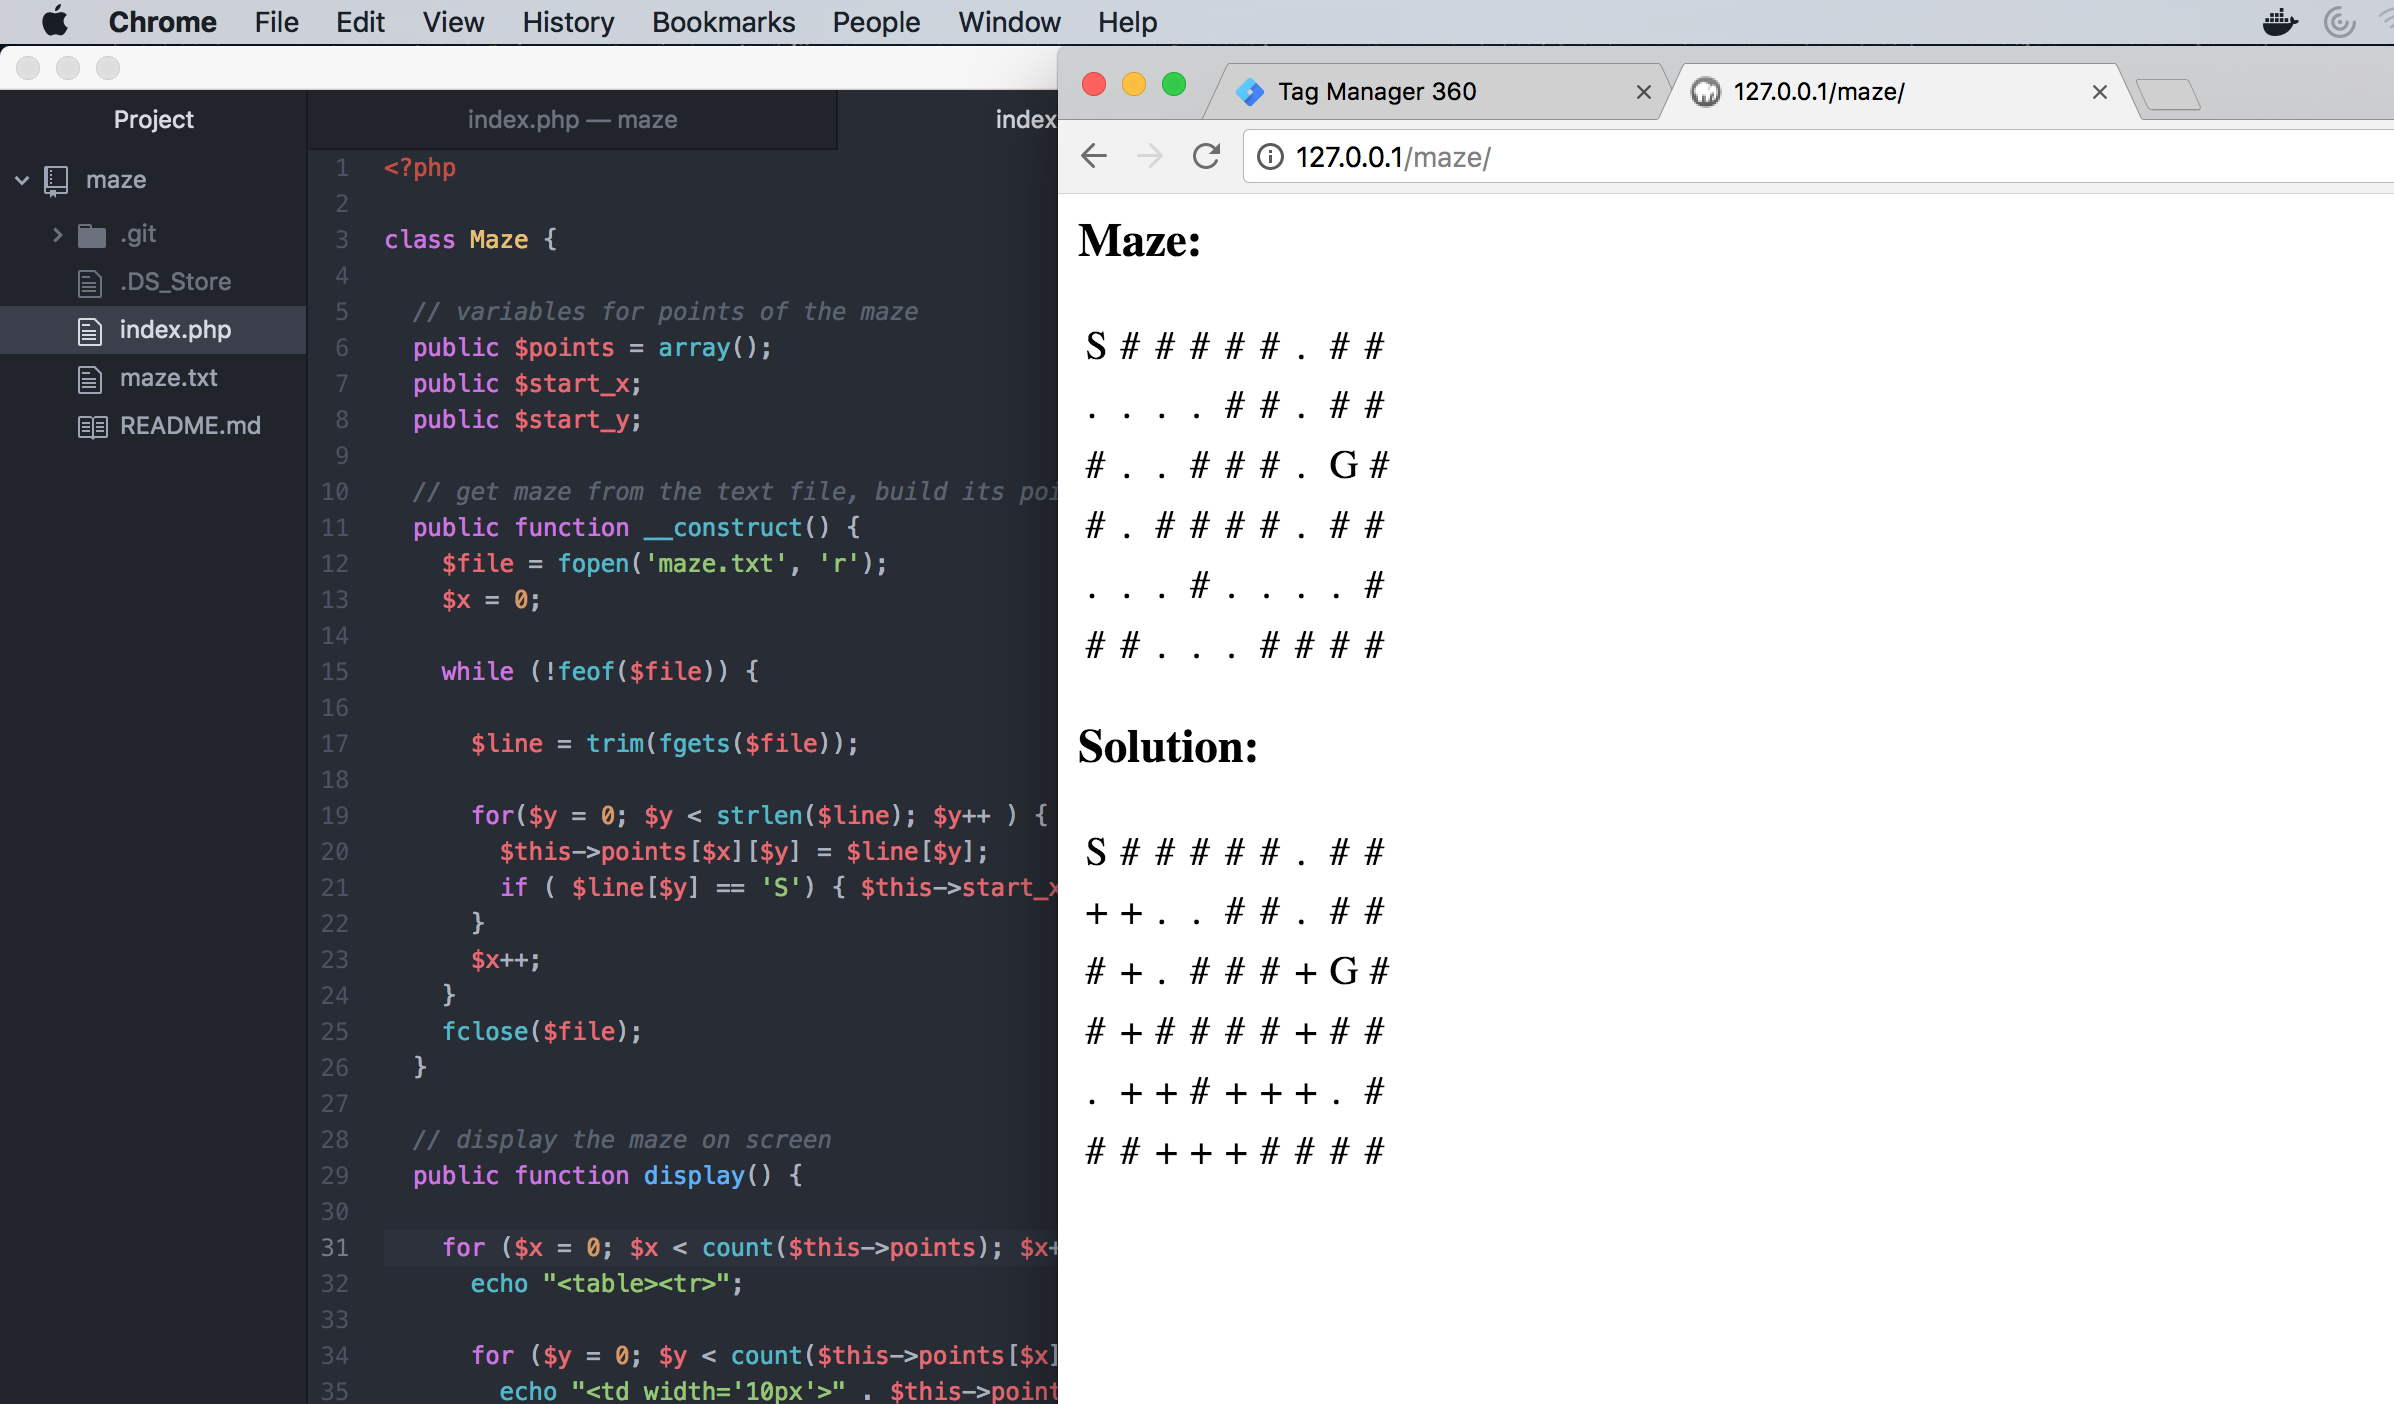
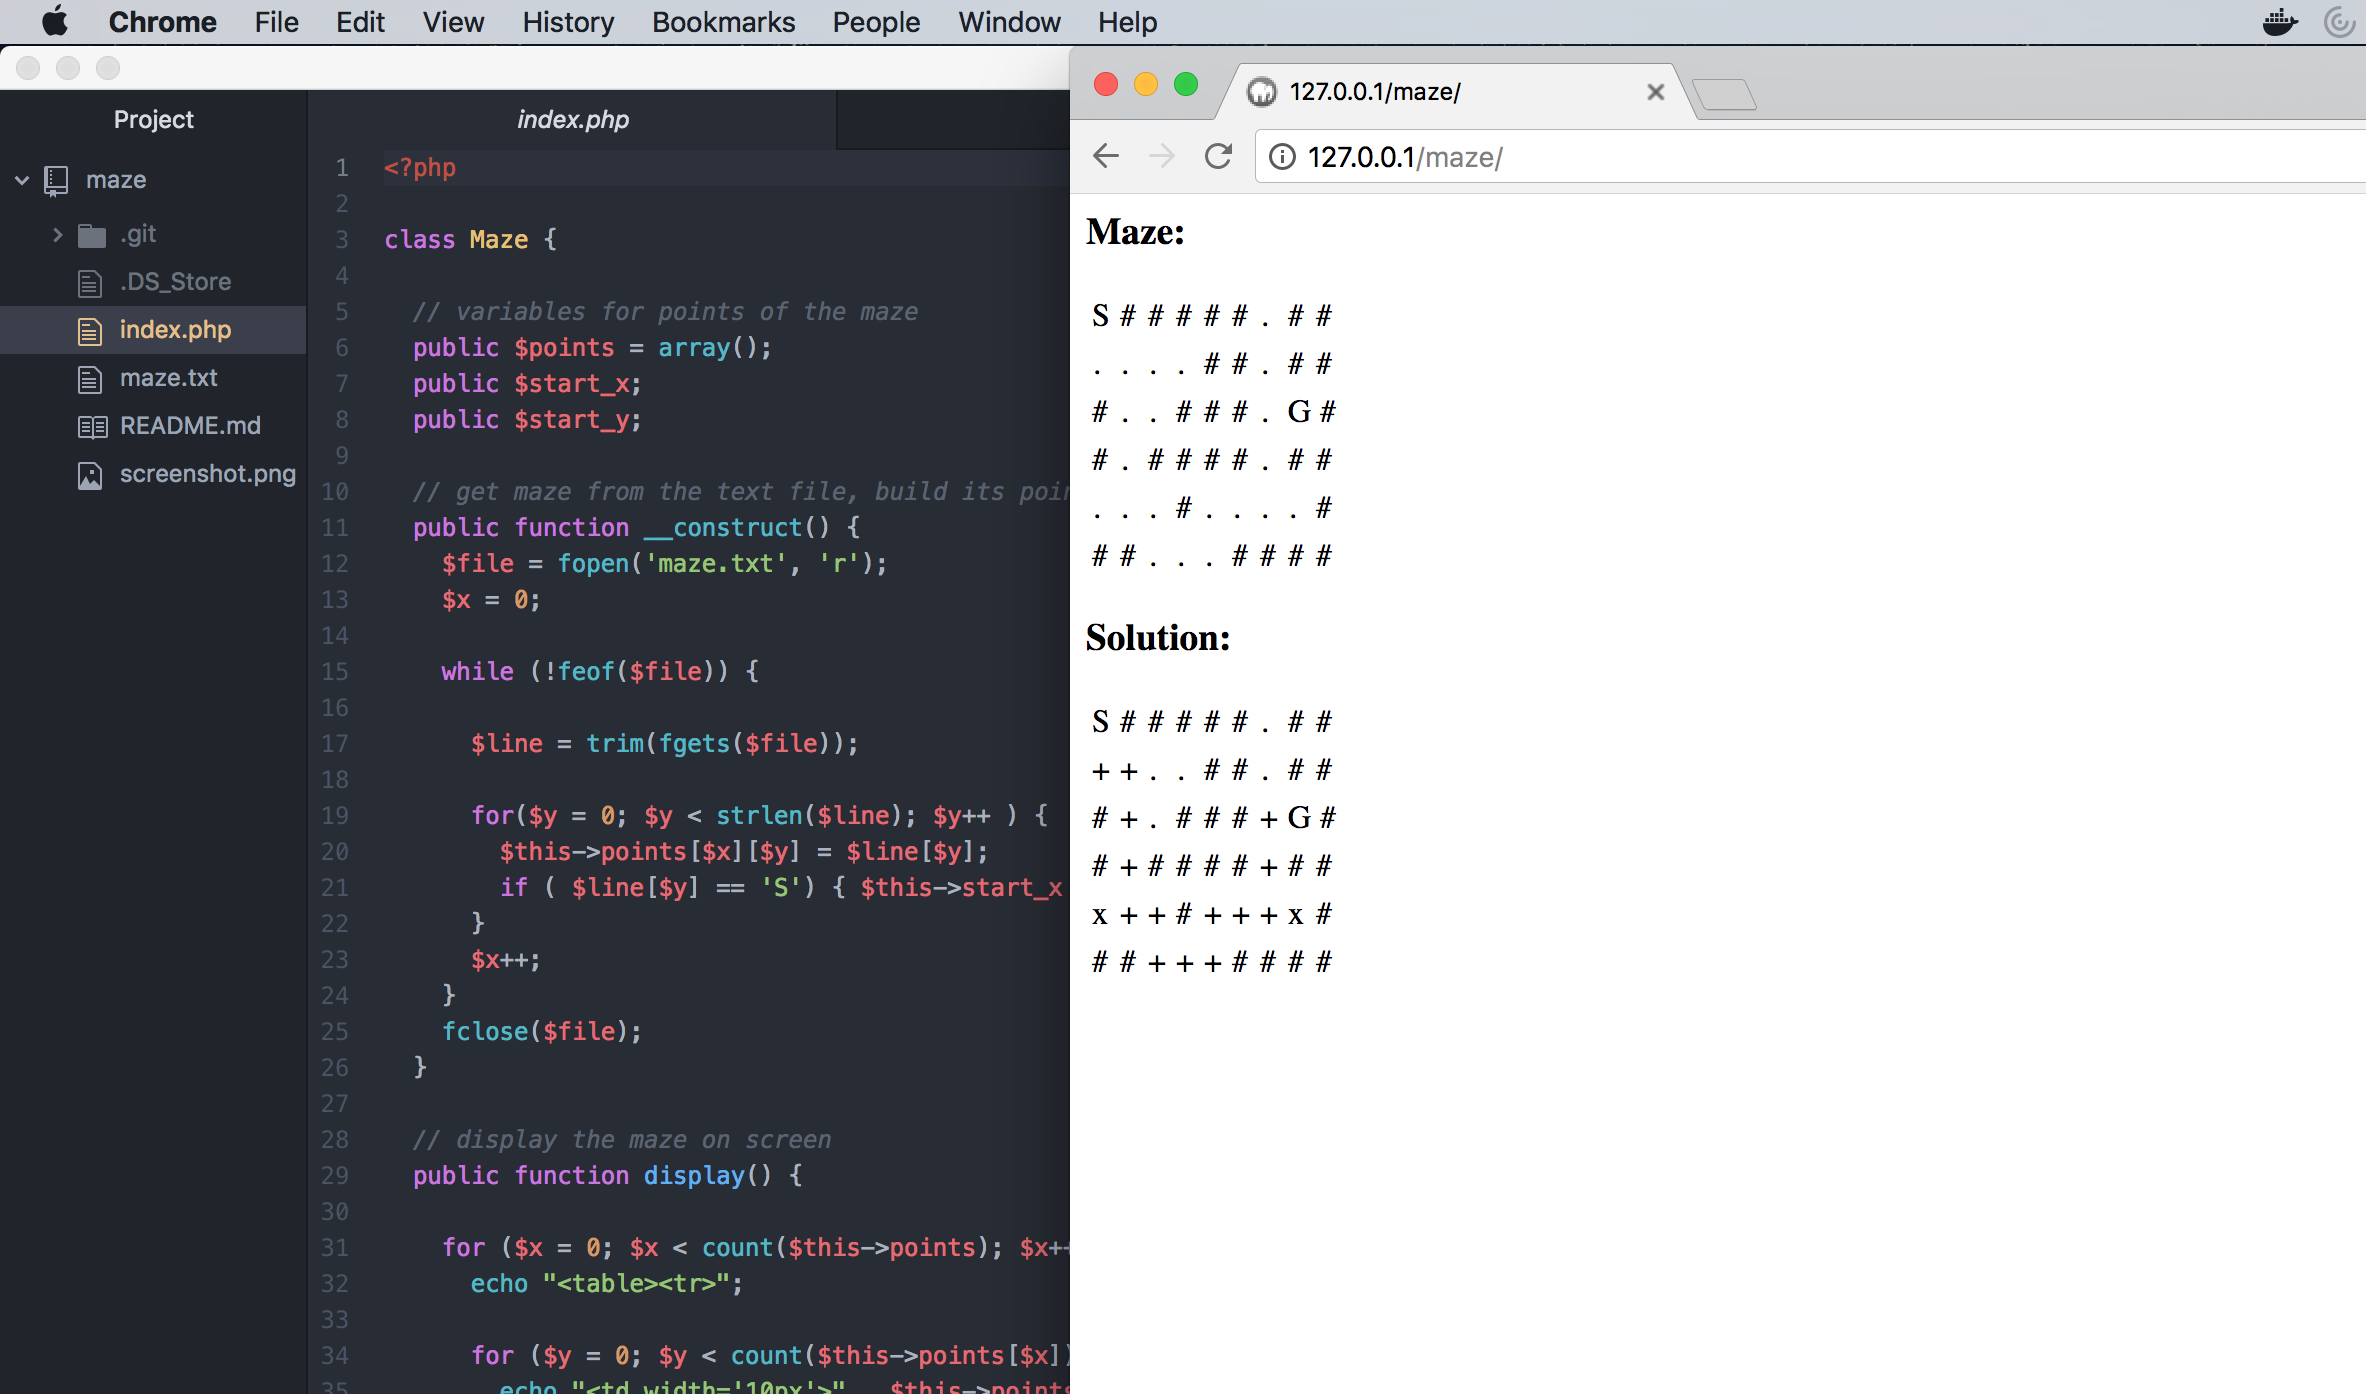
putting x for invalid paths is added

diff --git a/index.php b/index.php
@@ -51,7 +51,7 @@ class Maze {
         return true;
      }
 
-     $this->points[$x][$y] = '.';
+     $this->points[$x][$y] = 'x';
      return false;
   }
 }
